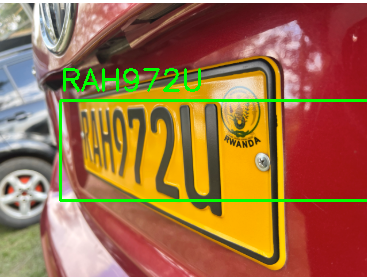
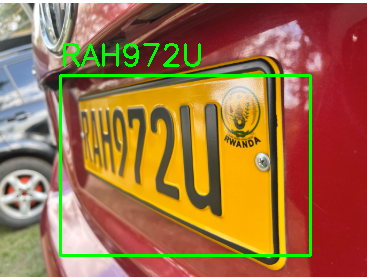
Updated code for bounding box

Changed region(s): [[0.1499, 0.1444, 1.0, 0.9531]]

diff --git a/process_image.py b/process_image.py
@@ -5,7 +5,7 @@ import cv2
 image = cv2.imread('assign.png')
 
 
-x, y, w, h = 60, 100, 350, 100  
+x, y, w, h = 60, 75, 250, 180  
 
 
 cv2.rectangle(image, (x, y), (x + w, y + h), (0, 255, 0), 2)  
